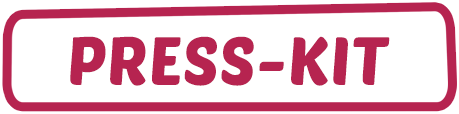
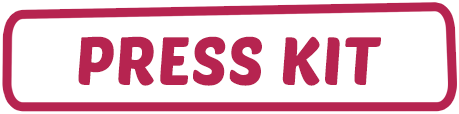
Minor Tweaks

Changed region(s): [[0.1525, 0.3158, 0.854, 0.7632]]

diff --git a/presskit.html b/presskit.html
@@ -257,7 +257,7 @@
               <li><b>YouTube:</b> <a href="https://www.youtube.com/@MimmoxGames" target="_blank" rel="noopener">youtube.com/@MimmoxGames</a></li>
               <li><b>TikTok:</b> <a href="https://www.tiktok.com/@mimmoxgames" target="_blank" rel="noopener">tiktok.com/@mimmoxgames</a></li>
               <li><b>Steam Page:</b> <a href="http://s.team/a/3669360" target="_blank" rel="noopener">s.team/a/3669360</a></li>
-              <li><b>Press-kit (Google Drive):</b> <a href="https://drive.google.com/drive/folders/1otMe6R33Rixe_E_r125upteV3uJf9zrd" target="_blank" rel="noopener">tinyurl.com/chrr8yna</a></li>
+              <li><b>Press Kit (Google Drive):</b> <a href="https://drive.google.com/drive/folders/1otMe6R33Rixe_E_r125upteV3uJf9zrd" target="_blank" rel="noopener">tinyurl.com/chrr8yna</a></li>
             </ul>
           </section>
         </div>
